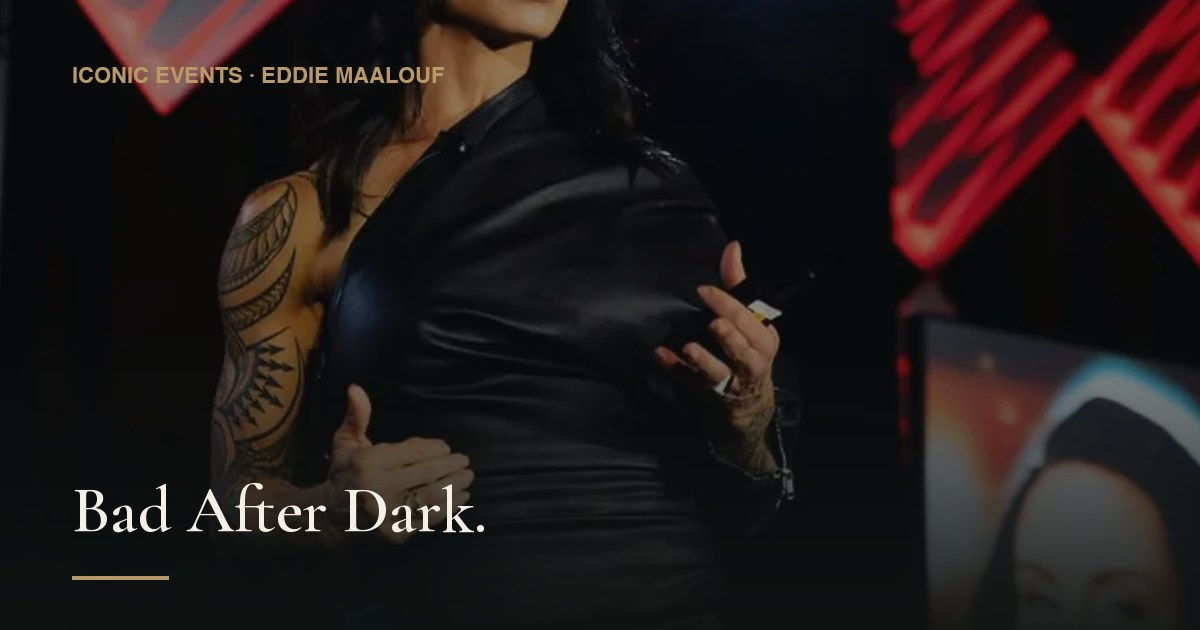
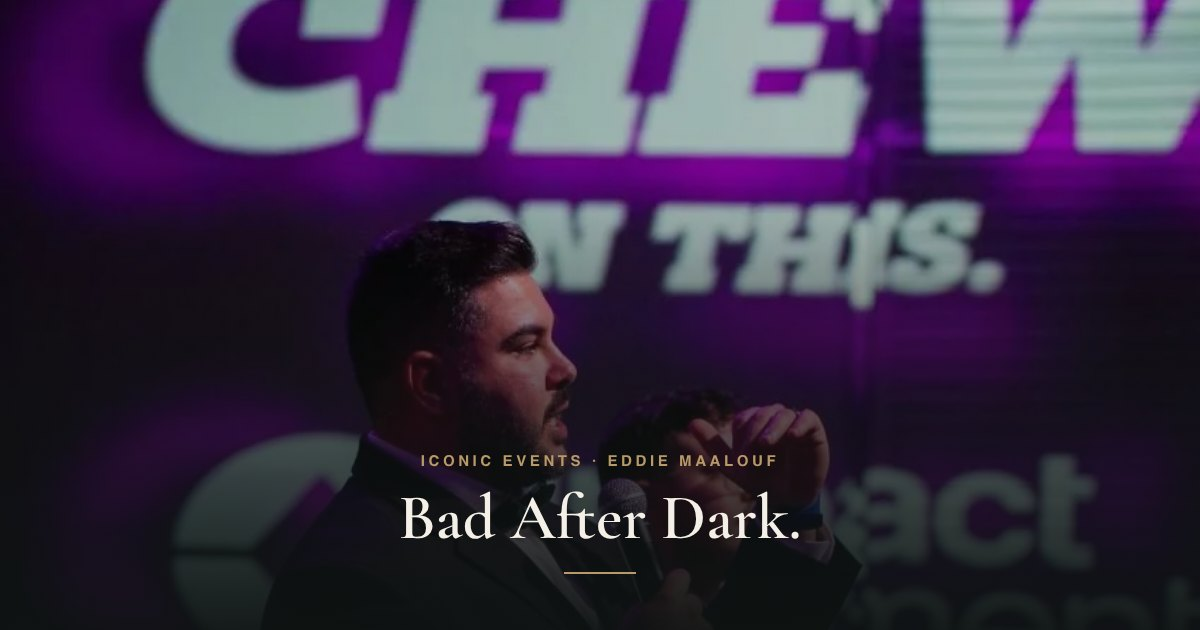
Contact page as two halves; client photos on Bad After Dark and SWS
- /contact: the form fills the right half of the screen on bone, edge to
  edge, with the pitch on the dark left half, held in view while the form
  scrolls. Below lg it stacks as before. The homepage form is unchanged.
- Selected Work: Bad After Dark and Scaling With Systems LIVE now use a
  photograph from their own case study with the client in it (Eddie
  Maalouf hosting; Ravi Abuvala on stage), in place of generic frames.
  imgPos keeps the face in frame when a tall photo is cropped wide.
- Their share cards are redrawn from the same photographs, centred so a
  square crop keeps the face and the title. scripts/make-og-cards.mjs now
  makes case study cards too (ONLY=case for just those).

Claude-Session: https://claude.ai/code/session_01R5feTyjTQVWD53qFHYxuBa

diff --git a/src/components/Cta.jsx b/src/components/Cta.jsx
@@ -135,14 +135,24 @@ export default function Cta({ modal = false, split = false, eyebrow, title, asid
   }
 
   return (
-    <div id="contact" className={`relative flex items-center overflow-hidden bg-onyx ${modal ? "py-6 sm:py-8" : "min-h-screen py-16 sm:py-24"}`}>
+    <div
+      id="contact"
+      className={`relative bg-onyx ${
+        // No overflow-hidden when split: it would stop the pitch column from
+        // sticking while the form scrolls past it.
+        split ? "lg:grid lg:min-h-[calc(100svh-4.5rem)] lg:grid-cols-2" : `flex items-center overflow-hidden ${modal ? "py-6 sm:py-8" : "min-h-screen py-16 sm:py-24"}`
+      }`}
+    >
       {/* brand pattern across the whole background */}
       <div className="pointer-events-none absolute inset-0 opacity-[0.05]" style={pattern} aria-hidden="true" />
-      {/* `split` puts the pitch on the left and the form on the right, for the
-          page that is nothing but this. Below lg it stacks, which is the same
-          order the single column already uses. */}
-      <div className={`relative z-10 mx-auto w-full px-5 sm:px-6 ${split ? "max-w-6xl lg:grid lg:grid-cols-[0.9fr_1.1fr] lg:items-start lg:gap-16" : "max-w-4xl"}`}>
-        <div className={split ? "lg:sticky lg:top-28" : ""}>
+      {/* `split` is the contact page: two halves of the screen, the pitch on
+          the dark left and the form filling the bone right half, edge to edge
+          (Iconic's call). The wrapper dissolves (lg:contents) so the halves
+          are the grid's own columns. Each half's outer padding lines its
+          content up with the 72rem container the rest of the site uses.
+          Below lg it stacks, pitch first. */}
+      <div className={`relative z-10 w-full ${split ? "lg:contents" : "mx-auto max-w-4xl px-5 sm:px-6"}`}>
+        <div className={split ? "px-5 py-16 sm:px-6 lg:sticky lg:top-24 lg:self-start lg:py-24 lg:pl-[max(1.5rem,calc(50vw-34.5rem))] lg:pr-16" : ""}>
         <Eyebrow text={eyebrow} />
         <h2 className={`mt-6 max-w-4xl font-serif font-semibold leading-[1.02] text-bone ${modal ? "text-4xl sm:text-5xl" : "text-5xl sm:text-6xl lg:text-7xl"}`}>
           {title ?? accent(t(CTA.title), "about the room")}
@@ -152,11 +162,11 @@ export default function Cta({ modal = false, split = false, eyebrow, title, asid
             need more than a heading next to a long form. */}
         {aside}
         </div>
-        <div className={split ? "lg:mt-0" : ""}>
+        <div className={split ? "relative bg-bone px-5 py-12 text-onyx sm:px-10 lg:py-24 lg:pl-16 lg:pr-[max(1.5rem,calc(50vw-34.5rem))]" : ""}>
         {status !== "done" && (
           <>
             {status === "error" && (
-              <div role="alert" className="mt-8 border border-brass/60 bg-onyx/60 p-5 sm:p-6">
+              <div role="alert" className={`border border-brass/60 p-5 sm:p-6 ${split ? "mb-8 bg-onyx" : "mt-8 bg-onyx/60"}`}>
                 <p className="font-sans text-xs font-bold uppercase tracking-[0.18em] text-brass">
                   That didn&rsquo;t send
                 </p>
@@ -169,7 +179,11 @@ export default function Cta({ modal = false, split = false, eyebrow, title, asid
                 </p>
               </div>
             )}
-            <form onSubmit={submit} noValidate className={`border border-brass bg-bone text-onyx ${modal ? "mt-6 p-5 sm:p-7" : "mt-10 p-6 sm:p-12"}`}>
+            <form
+              onSubmit={submit}
+              noValidate
+              className={`text-onyx ${split ? "" : `border border-brass bg-bone ${modal ? "mt-6 p-5 sm:p-7" : "mt-10 p-6 sm:p-12"}`}`}
+            >
               {/* Signpost for vendors, so a pitch never has to come through
                   the client brief. */}
               <p className="mb-8 border-b border-onyx/15 pb-5 font-sans text-sm leading-relaxed text-onyx/65">
@@ -238,17 +252,17 @@ export default function Cta({ modal = false, split = false, eyebrow, title, asid
                 <a href="/terms" className="underline underline-offset-2 transition hover:text-onyx">Terms and Conditions</a>.
               </p>
             </form>
-            <p className="mt-5 max-w-xl font-sans text-xs leading-relaxed text-bone/45">
+            <p className={`mt-5 max-w-xl font-sans text-xs leading-relaxed ${split ? "border-t border-onyx/15 pt-5 text-onyx/55" : "text-bone/45"}`}>
               {t(f.reassurance)}
             </p>
             {/* Vendors land on this section too, and the form above is written
                 for clients. Send them somewhere that fits. */}
             {!modal && (
-              <p className="mt-6 font-sans text-xs text-bone/45">
+              <p className={`mt-6 font-sans text-xs ${split ? "text-onyx/55" : "text-bone/45"}`}>
                 Supplying rather than booking?{" "}
                 <a
                   href="/vendors"
-                  className="font-bold uppercase tracking-[0.14em] text-brass underline underline-offset-4 transition hover:text-bone"
+                  className={`font-bold uppercase tracking-[0.14em] text-brass underline underline-offset-4 transition ${split ? "hover:text-onyx" : "hover:text-bone"}`}
                 >
                   Join the vendor list
                 </a>

diff --git a/src/content.js b/src/content.js
@@ -350,9 +350,13 @@ export const WORK = {
     cta: V("Read the case study →", "Read the case study →"),
   },
   archiveLabel: V("More from the archive", "More from the archive"),
+  // Each tile uses a photograph from its own case study with the client in
+  // it (Iconic's rule): Eddie Maalouf hosting Bad After Dark, Ravi Abuvala
+  // on stage at Scaling With Systems LIVE. `imgPos` keeps a face in frame
+  // when a tall photo is cropped to a wide card.
   archive: [
-    { id: "a1", img: "/images/gallery/g28.webp", name: "Bad After Dark", slug: "bad-after-dark", result: V("$146K sponsorships", "$146K sponsorships"), outcome: V("Partner presence built into the night, not bolted on.", "Partner presence built into the night, not bolted on.") },
-    { id: "a3", img: "/images/gallery/g26.webp", name: "Scaling With Systems LIVE", slug: "scaling-with-systems-live", result: V("Founder-led live summit", "Founder-led live summit"), outcome: V("300 attendees, all home safely.", "300 attendees, all home safely.") },
+    { id: "a1", img: "/images/gallery/bad-after-dark/01.webp", imgPos: "center 52%", name: "Bad After Dark", slug: "bad-after-dark", result: V("$146K sponsorships", "$146K sponsorships"), outcome: V("Partner presence built into the night, not bolted on.", "Partner presence built into the night, not bolted on.") },
+    { id: "a3", img: "/images/gallery/scaling-with-systems-live-2021/09.webp", name: "Scaling With Systems LIVE", slug: "scaling-with-systems-live", result: V("Founder-led live summit", "Founder-led live summit"), outcome: V("300 attendees, all home safely.", "300 attendees, all home safely.") },
   ],
 }
 
@@ -603,7 +607,7 @@ export const RECEIPTS = {
     { id: "n1", value: "$1.8M", img: "/images/gallery/g32.webp", label: V("membership, from 150 seats", "membership from 150 seats") },
     { id: "n2", value: "$146K", img: "/images/gallery/g34.webp", label: V("sponsorship, in six days", "sponsorship in 6 days") },
     { id: "n3", value: "40+", img: "/images/gallery/g25.webp", label: V("rooms engineered", "rooms engineered") },
-    { id: "n4", value: "100%", img: "/images/gallery/g24.webp", imgPos: "center 18%", label: V("2024 events sold out", "2024 events sold out") },
+    { id: "n4", value: "100%", img: "/images/gallery/g24.webp", imgPos: "center 52%", label: V("2024 events sold out", "2024 events sold out") },
   ],
 }
 

diff --git a/src/components/Work.jsx b/src/components/Work.jsx
@@ -88,6 +88,7 @@ export default function Work() {
               {...responsive(a.img, "(min-width: 768px) 30vw, 50vw")}
               alt=""
               loading="lazy"
+              style={a.imgPos ? { objectPosition: a.imgPos } : undefined}
               className="absolute inset-0 h-full w-full object-cover grayscale transition-all duration-700 ease-out group-hover:scale-105 group-hover:grayscale-0"
             />
             <div className="pointer-events-none absolute inset-0 bg-gradient-to-t from-black via-black/60 to-transparent md:from-onyx md:via-onyx/55" />
